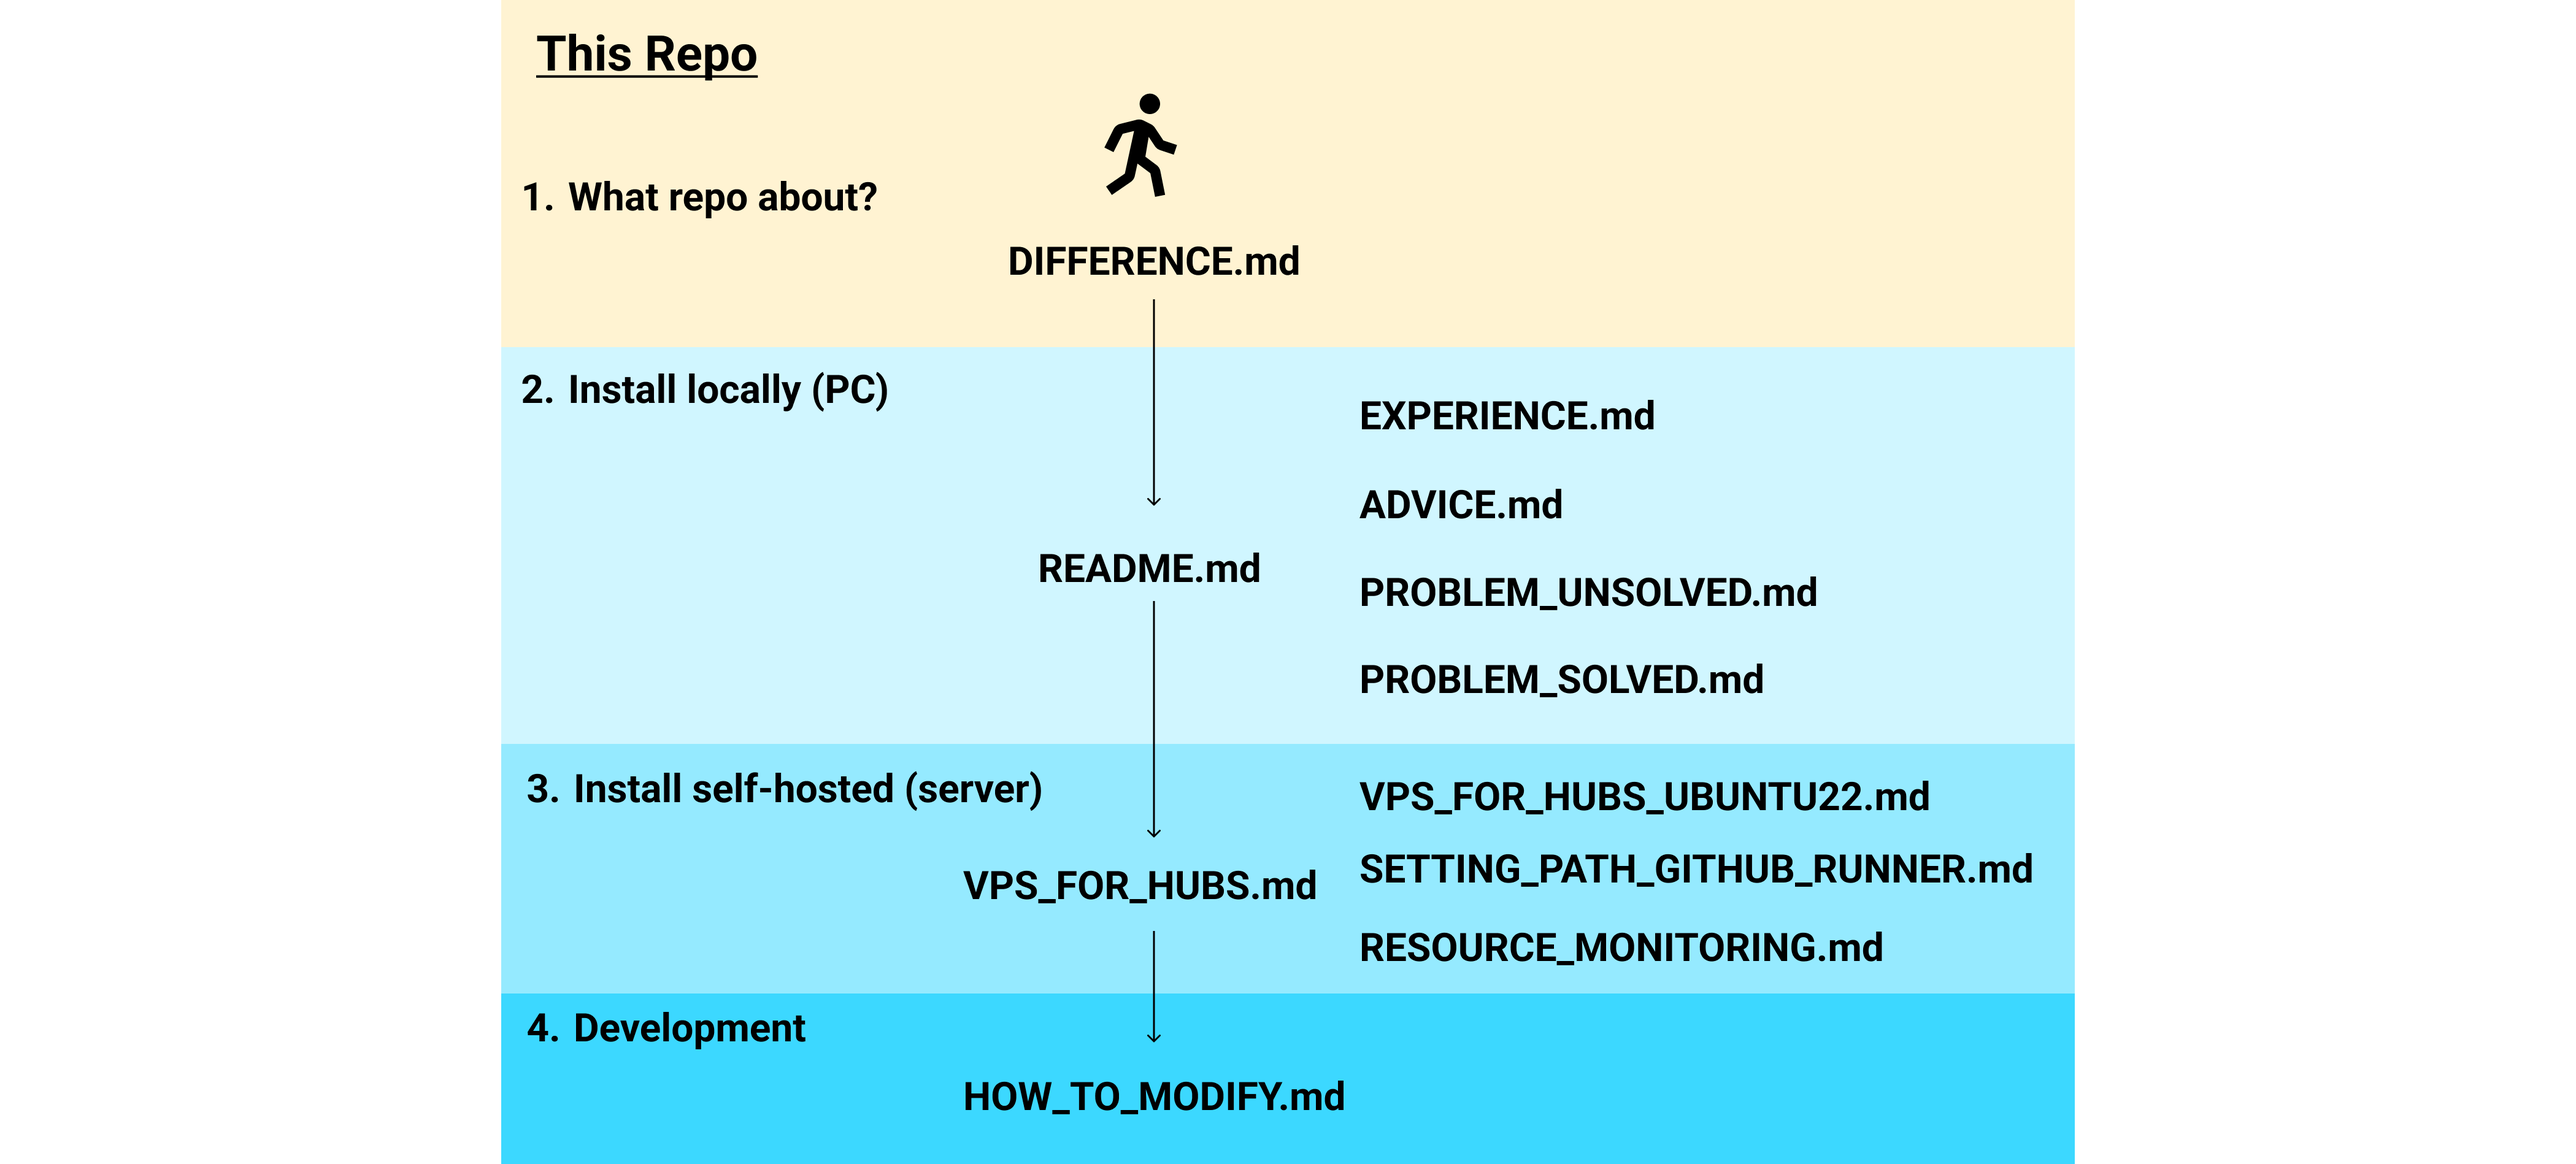
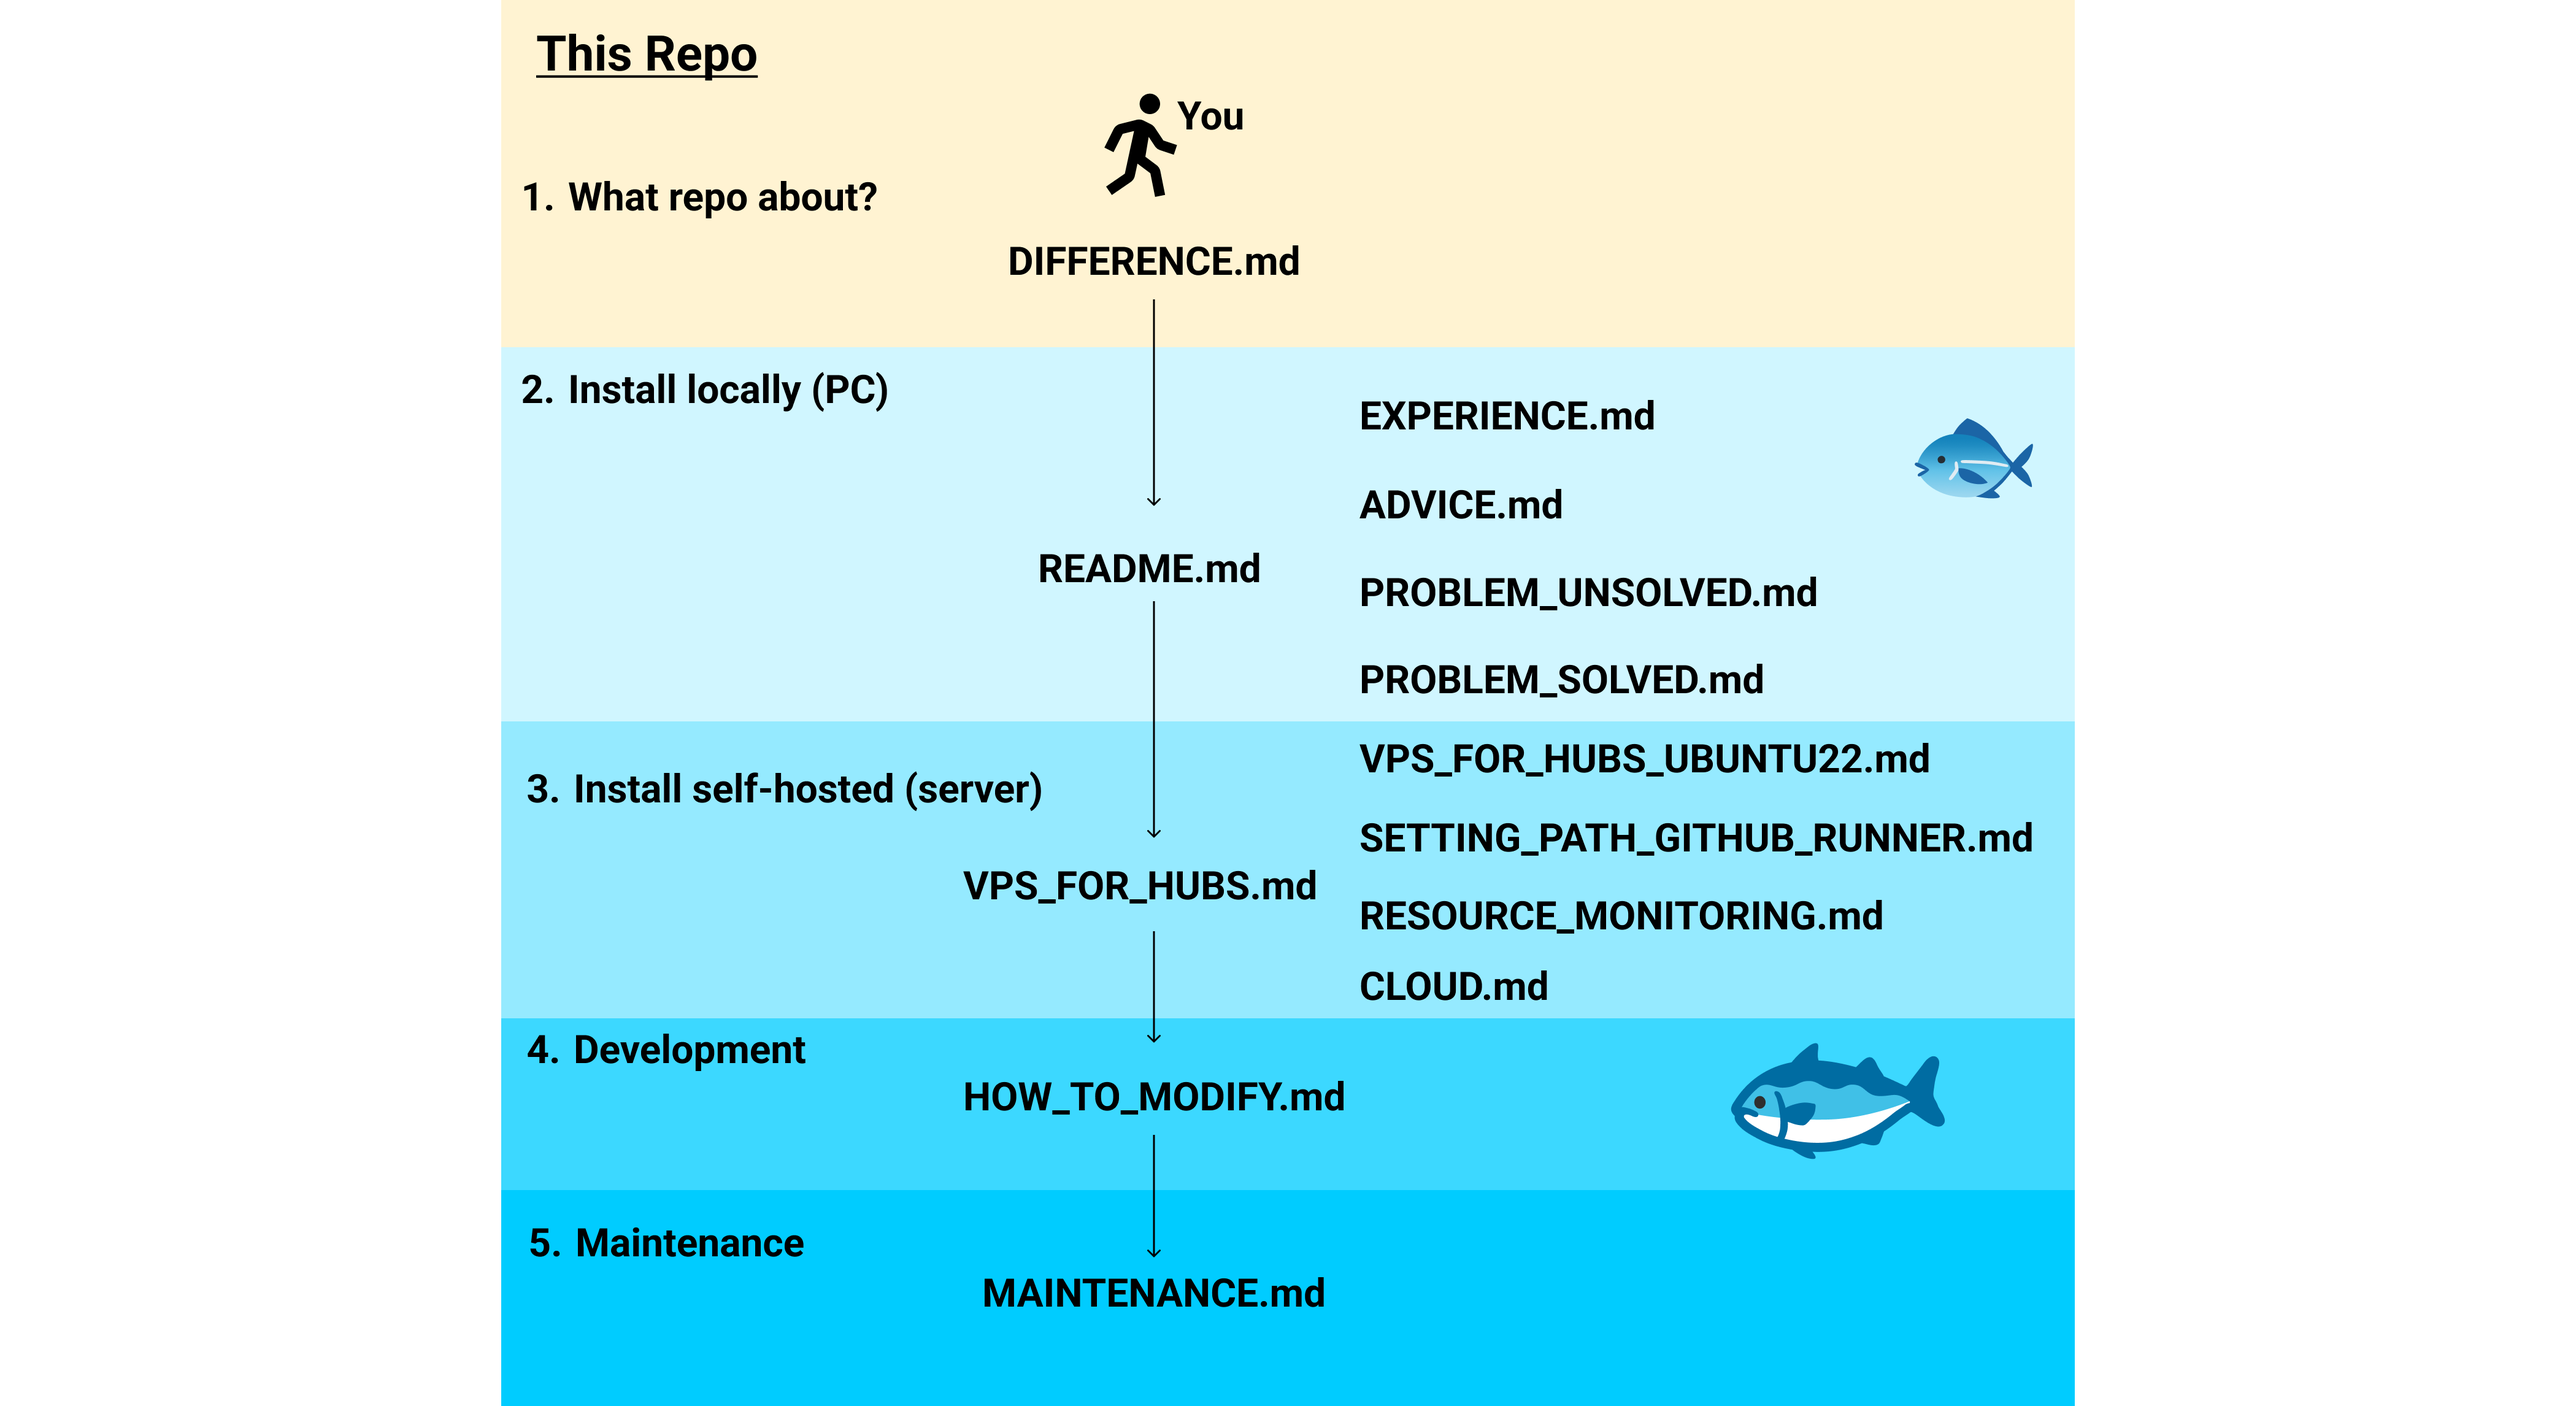
add how to maintenance

diff --git a/README.md b/README.md
@@ -539,7 +539,7 @@ Now you can access, with lock symbol (SSL secure)
 <br>
 <br>
 
-<a href='https://paypal.me/AlbirrKarim' target='_blank'><img height='36' style='border:0px;height:36px;' src='https://user-images.githubusercontent.com/29292018/186840848-65e25ff9-47e2-424b-bfa0-4ca5d027b346.png' border='0' alt='Donate via paypal' /></a>
+<!-- <a href='https://paypal.me/AlbirrKarim' target='_blank'><img height='36' style='border:0px;height:36px;' src='https://user-images.githubusercontent.com/29292018/186840848-65e25ff9-47e2-424b-bfa0-4ca5d027b346.png' border='0' alt='Donate via paypal' /></a> -->
 
 <a href='https://ko-fi.com/Q5Q0BC92X' target='_blank'><img height='36' style='border:0px;height:36px;' src='https://cdn.ko-fi.com/cdn/kofi3.png?v=3' border='0' alt='Buy Me a Coffee at ko-fi.com' /></a>
 

diff --git a/MAINTENANCE.md b/MAINTENANCE.md
@@ -1,0 +1,9 @@
+Here my approach maintain the server
+
+## Monitoring
+
+see [RESOURCE_MONITORING.md](RESOURCE_MONITORING.md)
+
+## Backup & Restore
+
+https://github.com/albirrkarim/how-to-maintenance-server#backup
